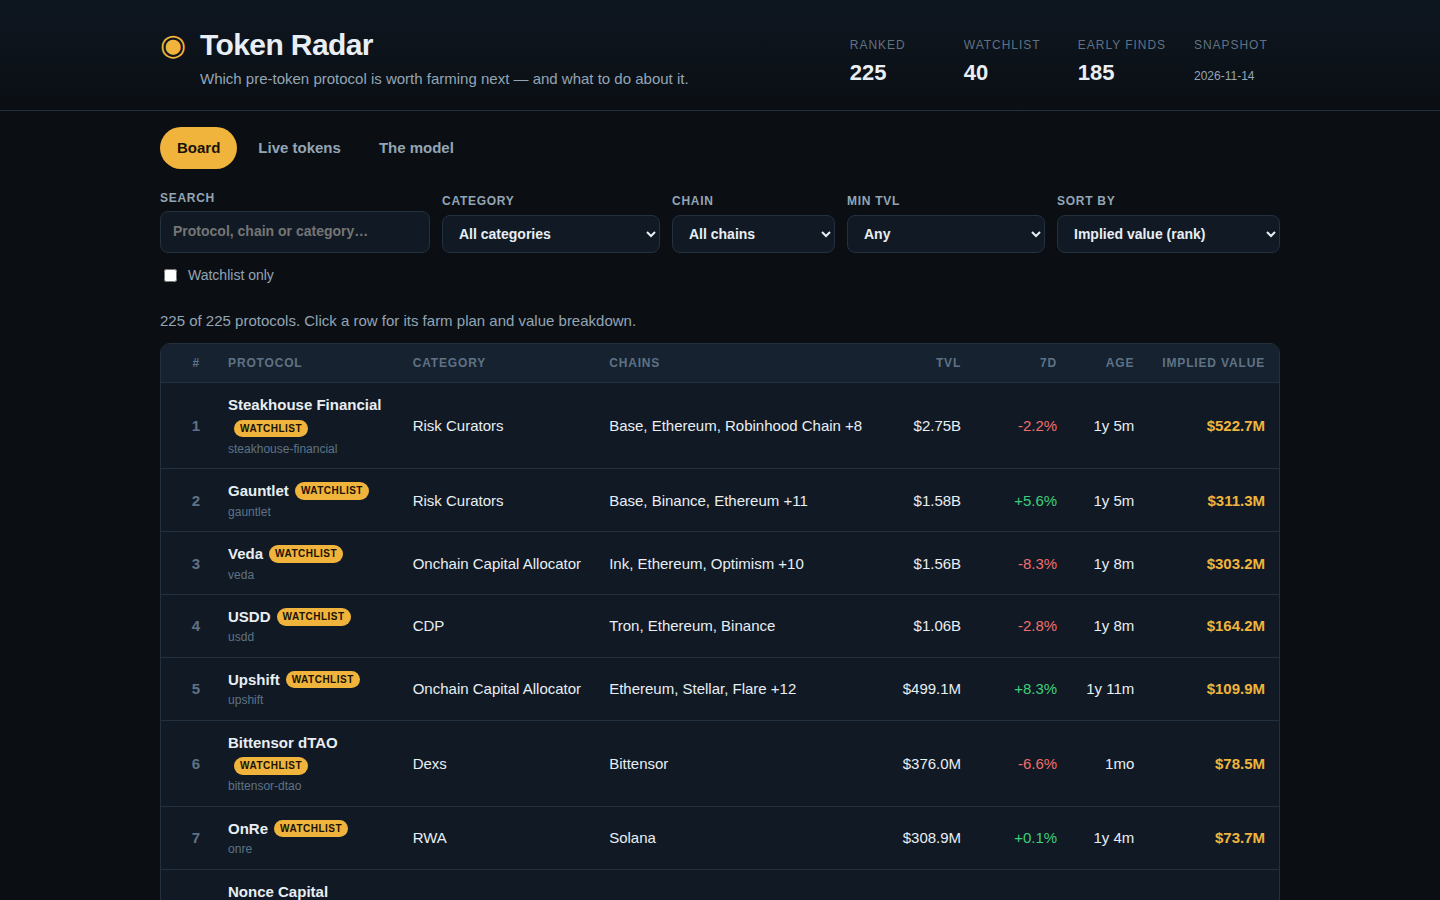
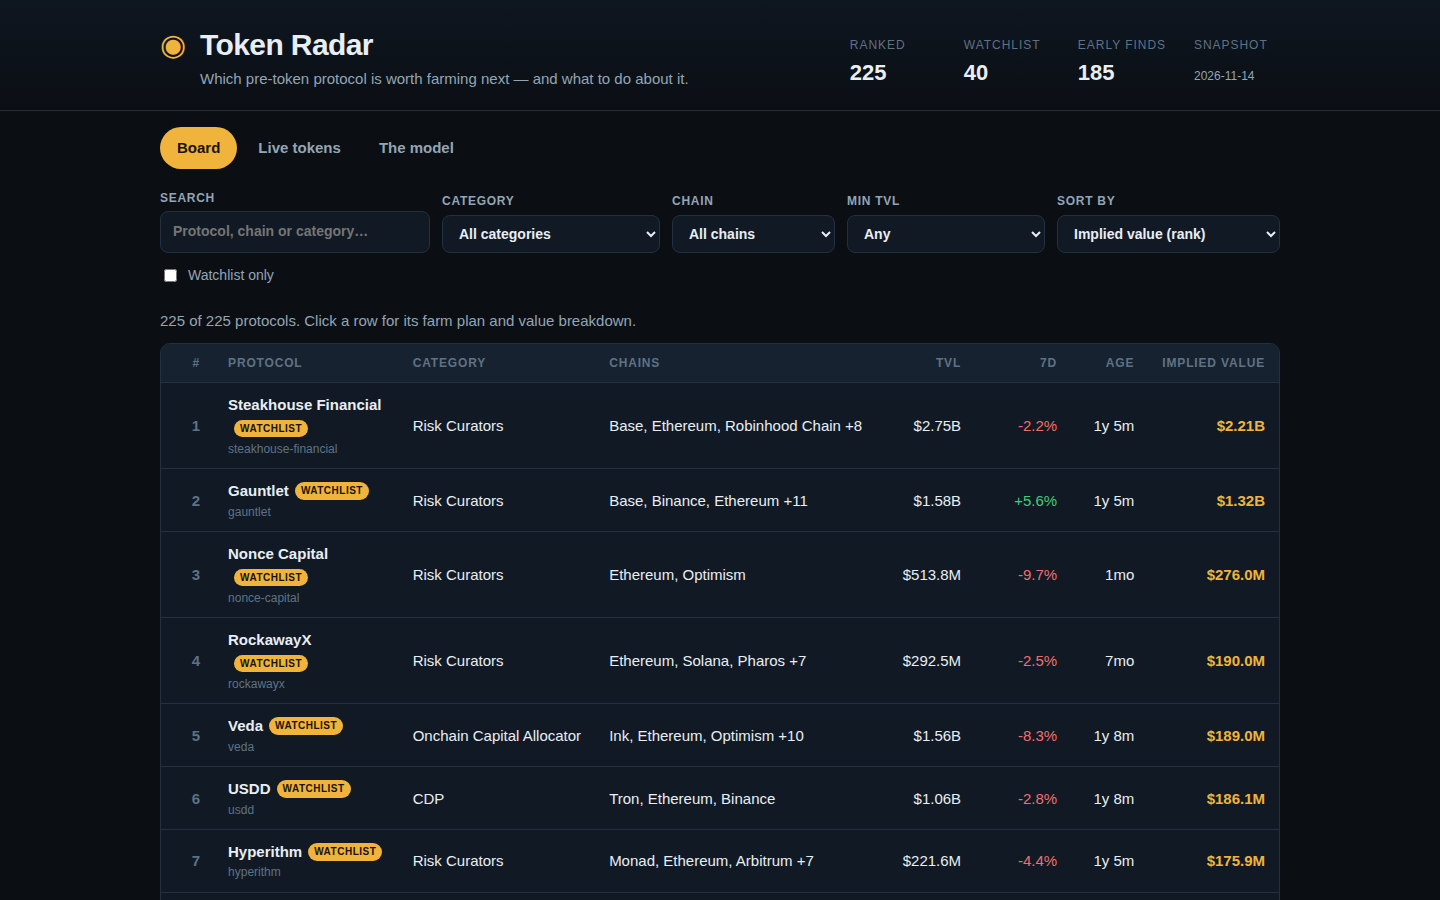
Model radar-3: shrinkage-blended category multiples, parameterized farm plans
- Multiples now blend each category's own median with the global median
  by shrinkage ((n x catMedian + 3 x global) / (n + 3), k=3) instead of a
  hard n>=3 cutoff: fallback rows drop from 97 to 15 (n=0 only).
- Farm steps 1/5/6 parameterized from the protocol's own record (chain,
  name, position type): unique steps rise from 240 to 533.
- Unknown 7d growth scores the snapshot's median change (-8.23%) instead
  of zero; multipleFor returns the real category n (was -1).
- Model tab prose + dashboard fallback labels updated to match; the 3
  screenshots re-taken against the new board.

diff --git a/lib/model.ts b/lib/model.ts
@@ -9,11 +9,13 @@
 // Implied value follows only from the snapshot's own figures. The key step is the multiple: for
 // each category, the median market-cap-to-TVL ratio of that category's protocols whose token
 // already trades, computed from this snapshot. A bridge and a lending market do not deserve the
-// same multiple, and the snapshot says so itself. Categories with too few trading comparables
-// fall back to the global median. Then:
+// same multiple, and the snapshot says so itself. A category's multiple blends its own median
+// with the global median, weighted by how many trading comparables it has (shrinkage, k = 3):
+// a category with one comparable leans mostly on the global median, one with many stands on its
+// own. Only a category with no trading comparables at all falls back to the global median. Then:
 //
 //   base       = tvl_usd x categoryMultiple
-//   growth     = clamp(change_7d, -60, 120) per cent
+//   growth     = clamp(change_7d, -60, 120) per cent (change_7d unknown: the snapshot's median)
 //   growthMult = 1 + (growth / 100) x GROWTH_WEIGHT
 //   maturity   = 0.6 + min(age_days, 730) / 730 x 0.4   (age_days unknown: 365)
 //   implied    = max(1, round(base x growthMult x maturity))
@@ -55,7 +57,7 @@ export interface ModelConstants {
   unknown_age_days: number;
   multiple_min: number;
   multiple_max: number;
-  min_category_n: number;
+  multiple_shrink_k: number;
 }
 
 export const MODEL: ModelConstants = {
@@ -68,11 +70,11 @@ export const MODEL: ModelConstants = {
   unknown_age_days: 365,
   multiple_min: 0.02,
   multiple_max: 2.0,
-  min_category_n: 3,
+  multiple_shrink_k: 3,
 };
 
 /** The model's version label: the dashboard names it. */
-export const MODEL_VERSION = 'radar-2';
+export const MODEL_VERSION = 'radar-3';
 
 /** How many live-token protocols the Live token view carries, by market cap. */
 export const LIVE_ROWS = 24;
@@ -163,6 +165,7 @@ export interface RadarData {
   early_size: number;
   live_size: number;
   global_multiple: number;
+  median_change_7d: number;
   multiples: CategoryMultiple[];
   watchlist: string[];
   rows: RadarRow[];
@@ -200,11 +203,22 @@ export function ageDays(asOf: string, listedAt: string | null): number | null {
   return Math.max(0, Math.floor((a - b) / DAY_MS));
 }
 
+/** The snapshot's median seven-day TVL change across its protocols; 0 when none report one. */
+export function medianChange7d(snapshot: Snapshot): number {
+  const changes = snapshot.protocols
+    .map((p) => p.change_7d)
+    .filter((c): c is number => typeof c === 'number' && Number.isFinite(c))
+    .sort((a, b) => a - b);
+  return median(changes) ?? 0;
+}
+
 /**
  * The trading multiples, derived from the snapshot's own tokenised protocols: for each category,
- * the median market-cap-to-TVL ratio of the protocols in it whose token already trades, clamped
- * to the model's band. Categories with fewer than `min_category_n` trading protocols fall back
- * to the global median, and the table says which.
+ * the median market-cap-to-TVL ratio of the protocols in it whose token already trades, blended
+ * with the global median by shrinkage — multiple = (n x catMedian + k x global) / (n + k) with
+ * k = `multiple_shrink_k` — then clamped to the model's band. A category with one comparable
+ * leans mostly on the global median; one with many stands on its own. Only a category with no
+ * trading comparables at all falls back to the global median, and the table says which.
  */
 export function deriveMultiples(snapshot: Snapshot, model: ModelConstants): { byCategory: Map<string, number>; table: CategoryMultiple[]; global: number } {
   const clamp = (x: number): number => Math.min(model.multiple_max, Math.max(model.multiple_min, x));
@@ -227,20 +241,20 @@ export function deriveMultiples(snapshot: Snapshot, model: ModelConstants): { by
   for (const [category, list] of [...ratios.entries()].sort((a, b) => a[0].localeCompare(b[0]))) {
     list.sort((a, b) => a - b);
     const n = list.length;
-    const multiple = n >= model.min_category_n ? clamp(median(list)!) : global;
+    const multiple = clamp((n * median(list)! + model.multiple_shrink_k * global) / (n + model.multiple_shrink_k));
     byCategory.set(category, multiple);
     table.push({ category, n, multiple: round4(multiple) });
   }
   return { byCategory, table, global };
 }
 
-/** The multiple one protocol gets: its category's, or the global fallback. */
-export function multipleFor(p: SnapshotProtocol, multiples: { byCategory: Map<string, number>; global: number }, model: ModelConstants): { multiple: number; n: number; fallback: boolean } {
+/** The multiple one protocol gets: its category's shrinkage-blended multiple, or the global fallback when its category has no trading comparables at all. */
+export function multipleFor(p: SnapshotProtocol, multiples: { byCategory: Map<string, number>; table: CategoryMultiple[]; global: number }, model: ModelConstants): { multiple: number; n: number; fallback: boolean } {
   const key = p.category ?? '(uncategorised)';
   const multiple = multiples.byCategory.get(key);
   if (multiple === undefined) return { multiple: multiples.global, n: 0, fallback: true };
-  // A category with too few trading protocols was already folded into the global median.
-  return { multiple, n: -1, fallback: false };
+  const n = multiples.table.find((t) => t.category === key)?.n ?? 0;
+  return { multiple, n, fallback: false };
 }
 
 /** The three multipliers and the implied value one protocol gets under `model`. */
@@ -248,10 +262,13 @@ export function impliedValue(
   protocol: SnapshotProtocol,
   asOf: string,
   model: ModelConstants,
-  multiples: { byCategory: Map<string, number>; global: number },
+  multiples: { byCategory: Map<string, number>; table: CategoryMultiple[]; global: number },
+  medianChange = 0,
 ): { implied: number; multiple: number; growthPct: number; growthMult: number; maturityMult: number; age: number | null } {
   const age = ageDays(asOf, protocol.listed_at);
-  const rawGrowth = finite(protocol.change_7d, 0);
+  // Unknown growth scores the snapshot's median change, not zero: a missing figure is no
+  // reason to rank a protocol above the typical one.
+  const rawGrowth = finite(protocol.change_7d, medianChange);
   const growthPct = Math.min(model.growth_cap, Math.max(model.growth_floor, rawGrowth));
   const growthMult = 1 + (growthPct / 100) * model.growth_weight;
   const ageForModel = age ?? model.unknown_age_days;
@@ -286,6 +303,7 @@ function bySlug(protocols: SnapshotProtocol[]): Map<string, SnapshotProtocol> {
 /** The protocols the board ranks, strongest first, with ranks 1..n. */
 export function buildBoard(snapshot: Snapshot, model: ModelConstants = MODEL): BoardRow[] {
   const multiples = deriveMultiples(snapshot, model);
+  const medianChange = medianChange7d(snapshot);
   const index = bySlug(snapshot.protocols);
   const chosen = new Map<string, SnapshotProtocol>();
   // The watchlist is the floor: every slug, even one the snapshot no longer carries.
@@ -301,11 +319,11 @@ export function buildBoard(snapshot: Snapshot, model: ModelConstants = MODEL): B
   for (const p of early) chosen.set(p.slug, p);
 
   const scored = [...chosen.values()].map((p) => {
-    const { implied, multiple, growthPct, growthMult, maturityMult, age } = impliedValue(p, snapshot.as_of, model, multiples);
+    const { implied, multiple, growthPct, growthMult, maturityMult, age } = impliedValue(p, snapshot.as_of, model, multiples, medianChange);
     const key = p.category ?? '(uncategorised)';
     const tableEntry = multiples.table.find((t) => t.category === key);
     const categoryN = tableEntry?.n ?? 0;
-    const fallback = tableEntry === undefined || categoryN < model.min_category_n;
+    const fallback = tableEntry === undefined || categoryN === 0;
     return { p, implied, multiple, growthPct, growthMult, maturityMult, age, categoryN, fallback };
   });
   scored.sort((a, b) => b.implied - a.implied || (a.p.slug < b.p.slug ? -1 : a.p.slug > b.p.slug ? 1 : 0));
@@ -403,6 +421,28 @@ function weeklyFor(p: SnapshotProtocol): string {
   return `Make one qualifying action each week, such as a deposit, a swap, a vote or a claim.`;
 }
 
+/** The position a farmer holds in a protocol, in the category's own words, for the farm log. */
+function positionFor(p: SnapshotProtocol): string {
+  const c = (p.category ?? '').toLowerCase();
+  if (c.includes('lend') || c.includes('cdp') || c.includes('collateral')) return 'supply position';
+  if (c.includes('dex') || c.includes('yield aggregator')) return 'liquidity position';
+  if (c.includes('yield') || c.includes('leveraged farm')) return 'vault shares';
+  if (c.includes('bridge')) return 'bridged funds';
+  if (c.includes('liquid staking') || c.includes('restak')) return 'stake';
+  if (c.includes('perpetual') || c.includes('derivative') || c.includes('options')) return 'margin position';
+  if (c.includes('prediction')) return 'market positions';
+  if (c.includes('curator') || c.includes('allocator') || c.includes('vault')) return 'vault shares';
+  if (c.includes('stable')) return 'stable asset balance';
+  if (c.includes('rwa') || c.includes('real world')) return 'yield-bearing asset';
+  if (c.includes('insurance')) return 'cover policy';
+  if (c.includes('launchpad')) return 'staked allocation';
+  if (c.includes('gaming') || c.includes('gamefi')) return 'in-game assets';
+  if (c.includes('nft')) return 'NFT position';
+  if (c.includes('privacy')) return 'shielded deposit';
+  if (c.includes('ai') || c.includes('compute')) return 'compute credit';
+  return 'position';
+}
+
 /**
  * A protocol's farm plan: six steps, each an action with a cost and a time. The plan is derived
  * from the protocol's own record (category, chains, TVL, age), never from a hand-written list.
@@ -415,7 +455,7 @@ export function farmSteps(p: SnapshotProtocol, age: number | null): FarmStep[] {
   const gas = capital >= 150 ? 8 : 4;
   return [
     {
-      text: `Use a fresh wallet that holds only the funds you plan to farm, and keep its seed phrase offline.`,
+      text: `Use a fresh wallet on ${chain} that holds only the funds you plan to farm, and keep its seed phrase offline.`,
       cost: 'under $3 of gas for the first transaction',
       time: '5 minutes',
     },
@@ -435,12 +475,12 @@ export function farmSteps(p: SnapshotProtocol, age: number | null): FarmStep[] {
       time: `${hold} days`,
     },
     {
-      text: `Before you withdraw, open the protocol's own points or rewards page and claim only from the link it publishes.`,
+      text: `Before you withdraw, open ${p.name}'s own points or rewards page and claim only from the link it publishes.`,
       cost: 'no fee to check, and never pay to claim',
       time: '10 minutes',
     },
     {
-      text: `Write the wallet, the dates and every transaction in a farm log so you can repeat the position or unwind it.`,
+      text: `Write the wallet, the dates and every transaction for the ${positionFor(p)} in a farm log so you can repeat it or unwind it.`,
       cost: 'nothing but the log',
       time: '5 minutes',
     },
@@ -504,6 +544,7 @@ export function buildRadar(snapshot: Snapshot, model: ModelConstants = MODEL): {
     early_size: early,
     live_size: live.length,
     global_multiple: round4(multiples.global),
+    median_change_7d: round4(medianChange7d(snapshot)),
     multiples: multiples.table,
     watchlist: snapshot.watchlist,
     rows: board.map(radarRow),

diff --git a/dashboard/index.html b/dashboard/index.html
@@ -89,8 +89,8 @@
         <p>Every implied value comes from the snapshot's own figures — TVL, seven-day growth, and how long the protocol has run with no token — never from a hand-kept list of names. The same function scores every row.</p>
         <p class="formula">implied = TVL × category multiple × growth × maturity</p>
         <ul class="model-points">
-          <li><strong>Category multiple.</strong> For each category, the median market-cap-to-TVL ratio of that category's protocols whose token already trades, computed from this snapshot. Categories with fewer than 3 trading comparables fall back to the global median. Multiples are clamped to 0.02–2.00.</li>
-          <li><strong>Growth.</strong> The seven-day TVL change, clamped to −60%…+120%, weighted at 0.5: a protocol growing 40% in a week scores 1.20×.</li>
+          <li><strong>Category multiple.</strong> For each category, the median market-cap-to-TVL ratio of that category's protocols whose token already trades, computed from this snapshot — blended with the global median by shrinkage, weighted by how many trading comparables the category has: (n × category median + 3 × global) / (n + 3). A category with one comparable leans mostly on the global median; one with many stands on its own. Only a category with no trading comparables at all falls back to the global median. Multiples are clamped to 0.02–2.00.</li>
+          <li><strong>Growth.</strong> The seven-day TVL change, clamped to −60%…+120%, weighted at 0.5: a protocol growing 40% in a week scores 1.20×. A protocol that reports no seven-day change scores the snapshot's median change instead of zero.</li>
           <li><strong>Maturity.</strong> 0.60 for a brand-new protocol, rising to 1.00 after two years running with no token. A protocol with no listing date is scored as one year old.</li>
         </ul>
         <h3>Try it: the sandbox</h3>
@@ -100,7 +100,7 @@
       </div>
       <div>
         <h2>Category multiples</h2>
-        <p>Derived from the snapshot's trading protocols. “n” is how many trading protocols the median rests on; a fallback multiple is the global median.</p>
+        <p>Derived from the snapshot's trading protocols. “n” is how many trading protocols the median rests on; each multiple blends its category's median with the global median by shrinkage, so a small n leans on the global figure. A fallback multiple — a category with no trading protocols at all — is the global median.</p>
         <div class="table-wrap small">
           <table id="multiples">
             <thead><tr><th>Category</th><th class="num">n</th><th class="num">Multiple</th></tr></thead>

diff --git a/dashboard/app.js b/dashboard/app.js
@@ -51,7 +51,7 @@
   // The model, re-implemented for the sandbox: the same formula as lib/model.ts.
   function recompute(r) {
     var m = R.model;
-    var growth = r.change_7d == null ? 0 : Math.min(m.growth_cap, Math.max(m.growth_floor, r.change_7d));
+    var growth = r.change_7d == null ? R.median_change_7d : Math.min(m.growth_cap, Math.max(m.growth_floor, r.change_7d));
     var gMult = 1 + (growth / 100) * sandbox.growth;
     var age = r.age_days == null ? m.unknown_age_days : r.age_days;
     var mat = m.maturity_floor + (Math.min(Math.max(age, 0), m.maturity_days) / m.maturity_days) * sandbox.maturity;
@@ -109,7 +109,7 @@
     if (!r) { el.hidden = true; el.innerHTML = ''; return; }
     var m = R.model;
     var base = r.tvl_usd * r.category_multiple;
-    var growthPct = r.change_7d == null ? 0 : Math.min(m.growth_cap, Math.max(m.growth_floor, r.change_7d));
+    var growthPct = r.change_7d == null ? R.median_change_7d : Math.min(m.growth_cap, Math.max(m.growth_floor, r.change_7d));
     var steps = r.farm_steps.map(function (s) {
       var cut = s.lastIndexOf(' Cost: ');
       var text = cut > 0 ? s.slice(0, cut) : s;
@@ -156,7 +156,7 @@
 
   // Multiples table.
   $('multiples').querySelector('tbody').innerHTML = R.multiples.slice().sort(function (a, b) { return b.multiple - a.multiple; }).map(function (t) {
-    var fb = t.n < R.model.min_category_n;
+    var fb = t.n === 0;
     return '<tr><td>' + esc(t.category) + (fb ? ' <span class="slug">(fallback)</span>' : '') + '</td>' +
       '<td class="num">' + t.n + '</td><td class="num">' + t.multiple.toFixed(3) + '×</td></tr>';
   }).join('');
